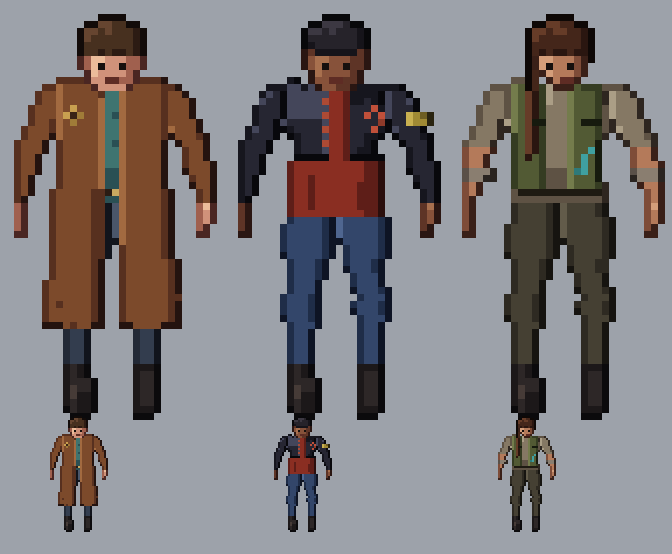
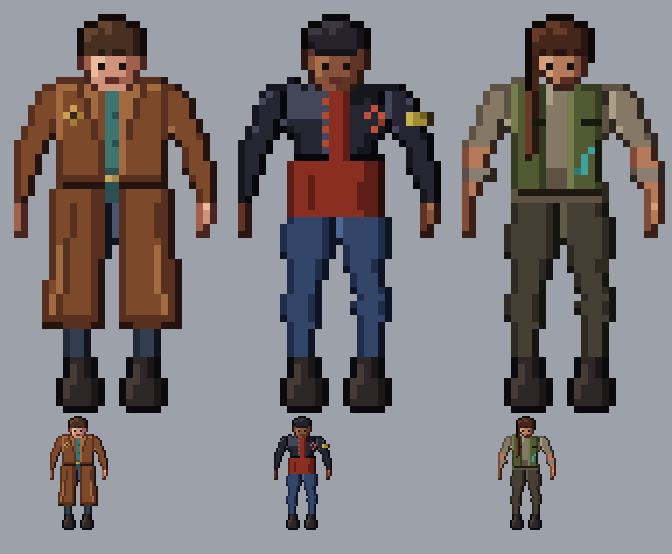
GATOS crew round 5, pass 2 (experiment): trench-coat shading (lapels, belt, folds from the belt, hem) and a matched pair of boots
Claude-Session: https://claude.ai/code/session_01WZGEuQ1NEBVidT9MSQSZ2z

diff --git a/docs/art/terran/crew/tools/crews2.py b/docs/art/terran/crew/tools/crews2.py
@@ -1,9 +1,64 @@
 import os, sys
 sys.path.insert(0, os.path.dirname(os.path.abspath(__file__)))
-from paint2 import paint, poly, grid
+from paint2 import paint, poly, grid, J
 import crews as C          # palettes and the round 2 heads
 
 HX, HY = 30, 6
+
+
+# a matched pair of boots, the same shape on both feet (the light still comes from the upper left on both)
+BOOT = [".kbbdk.",
+        ".kLbdk.",
+        ".kLbdk.",
+        "kLLbbdk",
+        "kLbbbdk",
+        "kLbbbdk",
+        "kbbbbdk",
+        ".kssss."]
+
+
+def boots(ramp, y0=55):
+    key = {"k": (ramp, 0), "d": (ramp, 1), "b": (ramp, 2), "L": (ramp, 3), "s": "#0a0809"}
+    cx = (J["ankle_r"][0] + J["ankle_l"][0]) / 2
+    near = grid(round(J["ankle_r"][0] - 3.5), y0, BOOT, key)
+    far_x = round(2 * cx - J["ankle_r"][0] - 3.5)
+    return {**near, **grid(far_x, y0, BOOT, key)}
+
+
+def boot_pixels(ramp):
+    return {p: (v if isinstance(v, str) else v[0][v[1]]) for p, v in boots(ramp).items()}
+
+
+def coat_tone(panel_lo, panel_hi, folds, belt_rows, lapel=None, inner_edge=None):
+    """Trench-coat shading for one panel: shoulder tops lit, a belt band, folds hanging from the belt (a lit column
+    and a shadow column each, flaring outward as they fall), a dark lining line on the open front edge below the belt,
+    and the hem in shade."""
+    def fn(x, y, t, stage):
+        if stage < 3:
+            return t
+        if y <= 16 and t == 2 and x <= (panel_lo + panel_hi) // 2:
+            t = 3                                         # shoulder top, facing the light from above
+        if y in belt_rows:
+            return 0 if y == belt_rows[-1] else 1         # the belt
+        if lapel:
+            face, edge = lapel
+            if face(x, y):
+                return 3 if t >= 2 else 2                 # the lapel folded back, catching the light
+            if edge(x, y):
+                return 1                                  # the shadow under the lapel's edge
+        if belt_rows[-1] + 2 < y < 49:
+            for fx, direction in folds:
+                fx += (y - belt_rows[-1]) // 8 * direction        # the fold drifts outward as the coat flares
+                if x == fx:
+                    return 1                                      # one soft fold: a shadow line...
+                if x == fx - 1 and y > 38 and t == 2:
+                    return 3                                      # ...lit on its upper-left side lower down
+        if inner_edge is not None and y > belt_rows[-1] and x == inner_edge:
+            return 1
+        if y >= 49 and t == 2:
+            return 1                                              # the hem, turning under
+        return t
+    return fn
 
 
 def head(skin, hair, rows):
@@ -13,21 +68,30 @@ def head(skin, hair, rows):
 def crew1(stage=5):
     D = C.DUSTER
     mats = {"torso": C.SHIRT1, "arm-near": D, "arm-far": D, "hand-near": C.S1, "hand-far": C.S1,
-            "leg-near": C.PANTS1, "leg-far": C.PANTS1, "boot": C.BOOTS}
-    over = [(poly([(27.5, 14.5), (34, 15), (34, 31), (33.5, 51), (25, 50.5), (26.5, 31)]), D),
-            (poly([(36, 15), (42.5, 14.5), (43.5, 31), (45.5, 50.5), (36.5, 51), (36, 31)]), D)]
-    d = [((33, y), D[3]) for y in range(18, 31)]                                   # near lapel's lit edge
-    d += [((35, y), C.SHIRT1[1]) for y in (20, 24, 28)]
-    d += [((x, 31), "#2a1c14") for x in range(34, 36)] + [((35, 31), "#c8a860")]   # belt and buckle at the hem
+            "leg-near": C.PANTS1, "leg-far": C.PANTS1, "boot": None}
+    belt = [29, 30]
+    near_lapel = (lambda x, y: 15 <= y <= 23 and 33 - (23 - y) // 3 <= x <= 33,
+                  lambda x, y: 15 <= y <= 23 and x == 33 - (23 - y) // 3 - 1)
+    far_lapel = (lambda x, y: 15 <= y <= 23 and 36 <= x <= 36 + (23 - y) // 3,
+                 lambda x, y: 15 <= y <= 23 and x == 36 + (23 - y) // 3 + 1)
+    over = [(poly([(27.5, 14.5), (34, 15), (34, 31), (33.5, 51), (25, 50.5), (26.5, 31)]), D,
+             coat_tone(25, 34, [(29, -1)], belt, near_lapel, inner_edge=33)),
+            (poly([(36, 15), (42.5, 14.5), (43.5, 31), (45.5, 50.5), (36.5, 51), (36, 31)]), D,
+             coat_tone(36, 46, [(41, 1)], belt, far_lapel, inner_edge=36)),
+            (set(boots(C.BOOTS)), C.BOOTS, lambda x, y, t, s: t)]
+    over[-1] = None
+    over = [o for o in over if o]
+    d = [((35, y), C.SHIRT1[1]) for y in (20, 24)]
+    d += [((34, 29), "#c8a860"), ((35, 29), "#a8884a")]                                    # belt buckle
     d += [((29, 19), "#c8a050"), ((28, 20), "#c8a050"), ((30, 20), "#a07c38"), ((29, 21), "#a07c38"), ((29, 20), "#3a2416")]
-    d += [((27, 47), D[1]), ((29, 50), D[1]), ((44, 46), D[1])]
+    d += [(p, c) for p, c in boot_pixels(C.BOOTS).items()]
     return paint(mats, over, head(C.S1, C.HAIR1, C.H1), d, stage)
 
 
 def crew2(stage=5):
     L = C.LEATHER
     mats = {"torso": L, "arm-near": L, "arm-far": L, "hand-near": C.S2, "hand-far": C.S2,
-            "leg-near": C.JEANS, "leg-far": C.JEANS, "boot": C.BOOTS}
+            "leg-near": C.JEANS, "leg-far": C.JEANS, "boot": None}
     over = [(poly([(33.5, 16.5), (36.5, 16.5), (37, 27.5), (33, 27.5)]), C.SHIRT2),
             (poly([(28.5, 27), (41.5, 27), (42, 34.5), (28, 35)]), C.SHIRT2),
             (poly([(45, 20), (49, 20.5), (49.5, 22.5), (45.5, 22.5)]), C.BANDANA)]
@@ -36,13 +100,14 @@ def crew2(stage=5):
     d += [((24, 18), L[3]), ((25, 17), L[3]), ((23, 22), L[3]), ((45, 18), L[3])]
     d += [((39, 20), "#c0503a"), ((40, 19), "#c0503a"), ((41, 20), "#c0503a"), ((40, 22), "#c0503a"), ((41, 21), "#8e3a2a")]
     d += [((31, y), C.SHIRT2[1]) for y in range(29, 34)] + [((38, y), C.SHIRT2[1]) for y in range(30, 34)]
+    d += list(boot_pixels(C.BOOTS).items())
     return paint(mats, over, head(C.S2, C.HAIR2, C.H2), d, stage)
 
 
 def crew3(stage=5):
     sleeve = lambda x, y: C.SHIRT3 if y <= 24 else C.S3
     mats = {"torso": C.SHIRT3, "arm-near": sleeve, "arm-far": sleeve, "hand-near": C.S3, "hand-far": C.S3,
-            "leg-near": C.CARGO, "leg-far": C.CARGO, "boot": C.BOOTS}
+            "leg-near": C.CARGO, "leg-far": C.CARGO, "boot": None}
     over = [(poly([(28.5, 16), (33.5, 16), (33.5, 31), (28.5, 31)]), C.VEST),
             (poly([(36.5, 16), (41.5, 16), (41.5, 31), (36.5, 31)]), C.VEST),
             (poly([(21, 28), (26, 28), (26, 30), (21, 30)]), C.WRAP), (poly([(45.5, 28), (50.5, 28), (50.5, 30), (45.5, 30)]), C.WRAP),
@@ -52,6 +117,7 @@ def crew3(stage=5):
     d += [((30, 18), C.HAIR3[3]), ((30, 22), C.HAIR3[3]), ((30, 25), C.HAIR3[3])]
     d += [((x, 31), "#1e1a12") for x in range(29, 41)]
     d += [((28, 42), C.CARGO[1]), ((28, 43), C.CARGO[1]), ((41, 41), C.CARGO[1]), ((41, 42), C.CARGO[1])]
+    d += list(boot_pixels(C.BOOTS).items())
     return paint(mats, over, head(C.S3, C.HAIR3, C.H3), d, stage)
 
 

diff --git a/docs/art/terran/crew/tools/paint2.py b/docs/art/terran/crew/tools/paint2.py
@@ -109,13 +109,17 @@ def paint(materials, overlays=(), head=None, details=(), stage=5):
             x, y = p
             if tones[p] == 2 and rid.get((x - 1, y)) != rid[p] and rid.get((x - 1, y - 1)) != rid[p]:
                 tones[p] = 3                      # lit left edge of each body part
-    for p, t in tones.items():
+    for p, t in list(tones.items()):
+        if materials.get(rid[p], 0) is None:
+            continue
         ramp = materials[rid[p]]
         if callable(ramp):
             ramp = ramp(*p)
         px[p] = ramp[t]
         owner[p] = ("body", ramp)
-    for i, (mask, ramp) in enumerate(overlays):
+    for i, ov in enumerate(overlays):
+        mask, ramp = ov[0], ov[1]
+        tone_fn = ov[2] if len(ov) > 2 else None
         for (x, y) in mask:
             t = 2
             if stage >= 3:
@@ -126,6 +130,8 @@ def paint(materials, overlays=(), head=None, details=(), stage=5):
                     t = 1
                 if stage >= 4 and x == lo and t == 2:
                     t = 3
+                if tone_fn:
+                    t = tone_fn(x, y, t, stage)
             px[(x, y)] = ramp[2] if stage == 2 else ramp[t]
             owner[(x, y)] = ("over%d" % i, ramp)
     if head:

diff --git a/docs/art/terran/crew/README.md b/docs/art/terran/crew/README.md
@@ -15,7 +15,11 @@ its front view, the 1/2 view, cut to `reference/rig-front-45.png`). The joint an
 the picture; each pixel goes to its nearest bone (torso, upper and lower arms, thighs, shins, feet), hands start at the
 wrists, the shirt ends at the model's hem line, and the clothing is placed by the joints (the duster reaches between
 the knees and ankles). Built by `tools/show2.py OUT.svg` (`tools/rig.py`, `tools/paint2.py`, `tools/crews2.py`).
-Round 4 is kept below for comparison.
+**Round 5, pass 2:** the duster shaded as a trench coat, from cloth-shading advice (folds start where the cloth
+hangs from, shadow only along the fold lines, slightly bent lines, one light direction): lit shoulder tops, lapels
+folded back with a shadow under their edge, a belt at the waist, one soft fold per panel hanging from the belt and
+drifting outward as the coat flares, a lining line on the open front edge, the hem in shade. The boots are now one
+matched pair, the same shape on both feet. Round 4 is kept below for comparison.
 
 ![Round 4](review/gatos-crew-round4.png)
 
